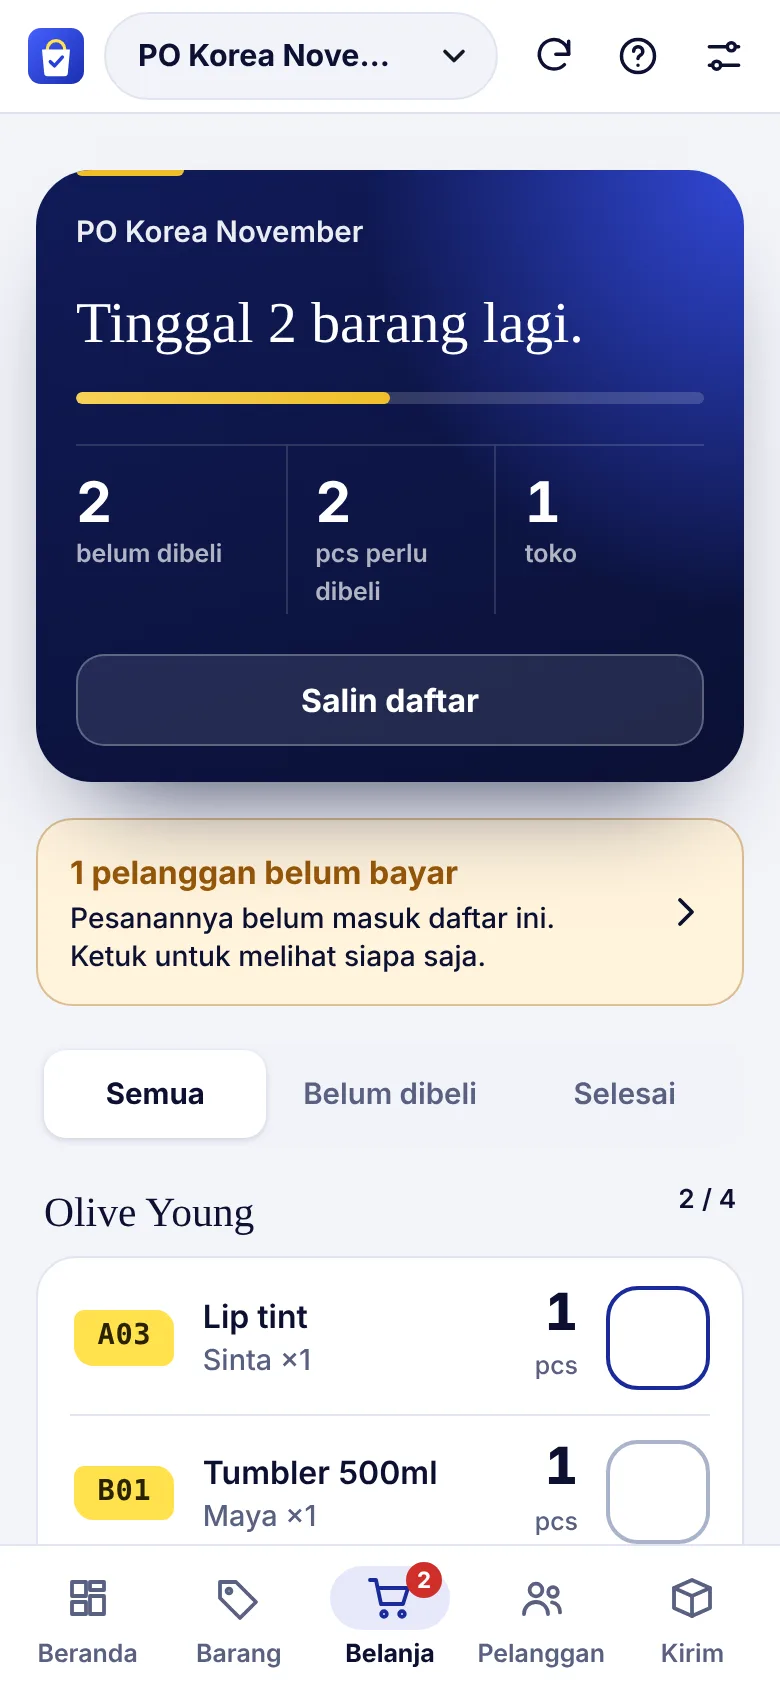
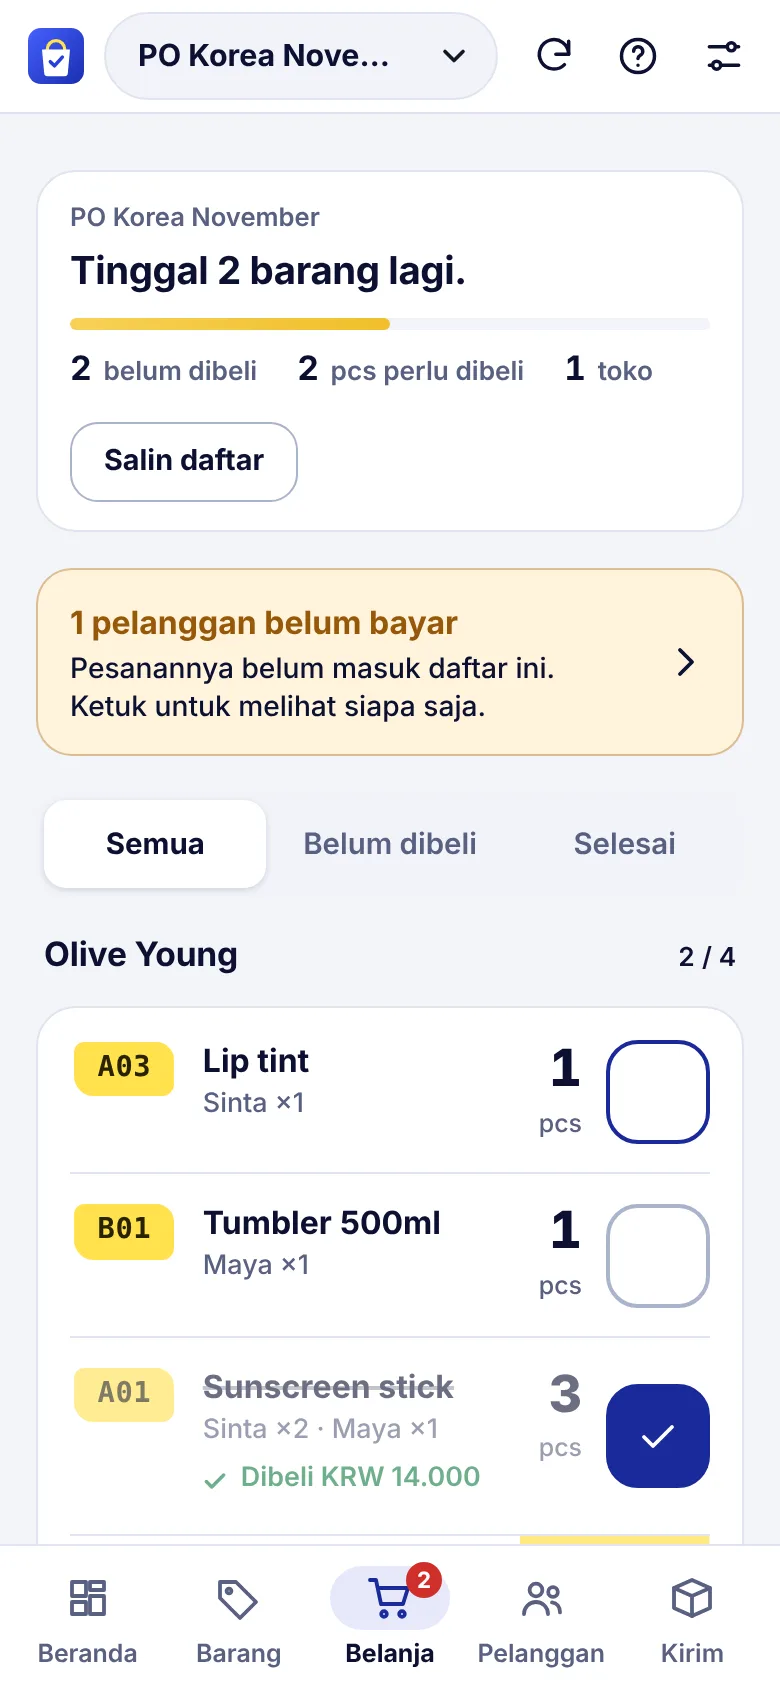
Strip ringkas di tab selain Beranda, layar tetap menyala saat belanja, nama pelanggan disembunyikan dari pembeli
Claude-Session: https://claude.ai/code/session_01Umsz8aQAUh9Fd5wyBKCHqJ

diff --git a/app.html b/app.html
@@ -671,6 +671,28 @@ details.more summary,.chipf{overflow-wrap:anywhere}
 .row.item .t{font-weight:700;line-height:1.25}
 @media(max-width:899px){.pacts .btn.dup{display:none}.phero .pacts{margin-top:16px}.pacts .btn{min-height:44px}.main-pad-fab{padding-bottom:96px}}
 .page{padding-bottom:88px}
+
+/* strip ringkas di tab selain Beranda */
+.phero{background:var(--surface);color:var(--ink);box-shadow:none;border:1px solid var(--rule);border-radius:20px;padding:14px 16px 14px}
+.phero::after{display:none}
+.phero .lux-top{opacity:1;font-size:.8rem;color:var(--muted);font-weight:600}
+.phero .lux-h,.phero .lux-h .num{font-family:var(--f-body);font-weight:700}
+.phero .lux-h{font-size:1.2rem;line-height:1.25;margin:4px 0 12px;color:var(--ink);letter-spacing:-.01em}
+.phero .lux-bar{height:6px;background:var(--sunken)}
+.phero .lux-st{display:flex;flex-wrap:wrap;gap:6px 20px;margin:12px 0 0;border:0}
+.phero .lux-st>div,.phero .lux-st>div+div{padding:0;border:0;display:flex;align-items:baseline;gap:6px}
+.phero .lux-st dd{font-size:1.05rem;font-family:var(--f-body)}
+.phero .lux-st dd small{font-size:.85rem}
+.phero .lux-st dt{margin:0;padding:0;font-size:.82rem;color:var(--muted);opacity:1}
+.phero .pacts{margin-top:14px;gap:8px}
+.phero .pacts .btn{color:var(--ink);background:var(--surface);border:1.5px solid var(--rule-strong);min-height:44px;flex:1 1 auto}
+.phero .pacts .btn:hover{background:var(--sunken)}
+.phero .pacts .btn .i{color:currentColor}
+.phero .pacts .btn.primary{background:var(--gold);border-color:var(--gold);color:#241b00}
+@media(min-width:900px){.phero .lux-h{font-size:1.5rem}.phero{padding:18px 22px}.phero .pacts .btn{flex:0 0 auto}}
+
+.phero .pacts .btn{flex:0 0 auto;min-height:40px;padding:0 16px;font-size:.9rem}
+.groups .sec>.label>span:first-child{font-family:var(--f-body);font-weight:700;font-size:1.05rem;letter-spacing:-.005em}
 </style>
 </head>
 <body>
@@ -947,6 +969,18 @@ function allowedTabsAll(){
 }
 var TAB_LABEL={home:'Beranda',barang:'Barang',belanja:'Belanja',tagihan:'Pelanggan',kirim:'Kirim'};
 
+
+/* layar tetap menyala saat daftar belanja dibuka */
+var WL={l:null};
+function wakeSync(){
+  try{
+    if(!('wakeLock' in navigator))return;
+    var want=UI.tab==='belanja'&&document.visibilityState==='visible'&&!!S.cur;
+    if(want&&!WL.l&&!WL.busy){WL.busy=1;navigator.wakeLock.request('screen').then(function(l){WL.busy=0;WL.l=l;l.addEventListener('release',function(){WL.l=null})}).catch(function(){WL.busy=0})}
+    else if(!want&&WL.l){WL.l.release();WL.l=null}
+  }catch(e){}
+}
+document.addEventListener('visibilitychange',function(){wakeSync()});
 
 
 /* ================= ONLINE: Supabase, login, sinkron ================= */
@@ -1961,7 +1995,7 @@ function modalShop(C){
   var p=C.per[i.id],t=C.t,tu=topUp(C,i),qty=tu?p.ordered:(i.status==='dibeli'?i.boughtQty:p.alloc),price=i.aktual!=null?i.aktual:i.harga;
   var who=p.lines.map(function(l){var c=S.customers.find(function(x){return x.id===l.cust});return '<div class="row" style="min-height:48px;padding:8px 14px"><div class="grow">'+esc(c?c.nama:'?')+'</div><b class="num">×'+l.qty+'</b></div>'}).join('');
   return sheet(i.kode+' · '+i.nama,'<div class="sheet-bd">'+
-    '<div class="sec"><div class="label">Pemesan ('+p.ordered+' pcs)</div><div class="list">'+who+'</div></div>'+
+    (S.role==='pembeli'?'<div class="sec"><div class="label">Perlu dibeli</div><div class="list"><div class="row" style="min-height:48px;padding:8px 14px"><div class="grow">Total pesanan</div><b class="num">'+p.ordered+' pcs</b></div></div></div>':'<div class="sec"><div class="label">Pemesan ('+p.ordered+' pcs)</div><div class="list">'+who+'</div></div>')+
     (tu?'<div class="hint">Pesanan bertambah. Sudah dibeli '+i.boughtQty+' pcs, pesanan sekarang '+p.ordered+' pcs, jadi masih kurang '+p.wait+' pcs. Jumlah di bawah sudah diisi total yang harus dibeli.</div>':(p.wait>0?'<div class="hint">'+p.wait+' pcs pesanan tidak kebagian karena stok terbatas ('+(i.stok===''?'-':i.stok)+' pcs).</div>':''))+
     '<div class="field"><span>Jumlah yang dibeli</span>'+stepper('bq-'+i.id,qty,0)+'</div>'+
     '<label class="field"><span>Harga di toko ('+esc(t.mata)+' per pcs)</span><input id="ba-'+i.id+'" type="text" data-money="d" inputmode="decimal" autocomplete="off" value="'+esc(fmtIn(price))+'"><small>Harga di daftar: '+esc(t.mata)+' '+nf(i.harga)+'. Ubah kalau harga di toko berbeda.</small></label></div>'+
@@ -2218,6 +2252,7 @@ function render(){
       var ae=document.activeElement;if(ae&&ae.closest&&ae.closest('.sheet')&&(ae.id||ae.name))fk=ae.id?'#'+ae.id:'[name='+ae.name+']'}}
   var fab=!m&&C&&UI.tab==='barang'?'<button class="fab" data-act="item-new" aria-label="Tambah barang">'+ico('plus')+'Barang</button>':!m&&C&&UI.tab==='tagihan'?'<button class="fab" data-act="line-new" aria-label="Tambah pesanan">'+ico('plus')+'Pesanan</button>':'';
   app.innerHTML=viewHeader()+'<div class="shell">'+(C?viewNav(C):'<span></span>')+'<main>'+viewBanner()+body+'</main></div>'+fab+modal;
+  if(typeof wakeSync==='function')wakeSync();
   window.scrollTo(0,y);UI.just=null;
   if(keep){Object.keys(keep).forEach(function(k){var e=document.querySelector('.sheet '+k);if(e&&e.value!==keep[k])e.value=keep[k]});if(fk){var fe=document.querySelector('.sheet '+fk);if(fe)try{fe.focus()}catch(x){}}}
   if(sy){var nb=document.querySelector('.sheet-bd');if(nb)nb.scrollTop=sy}
